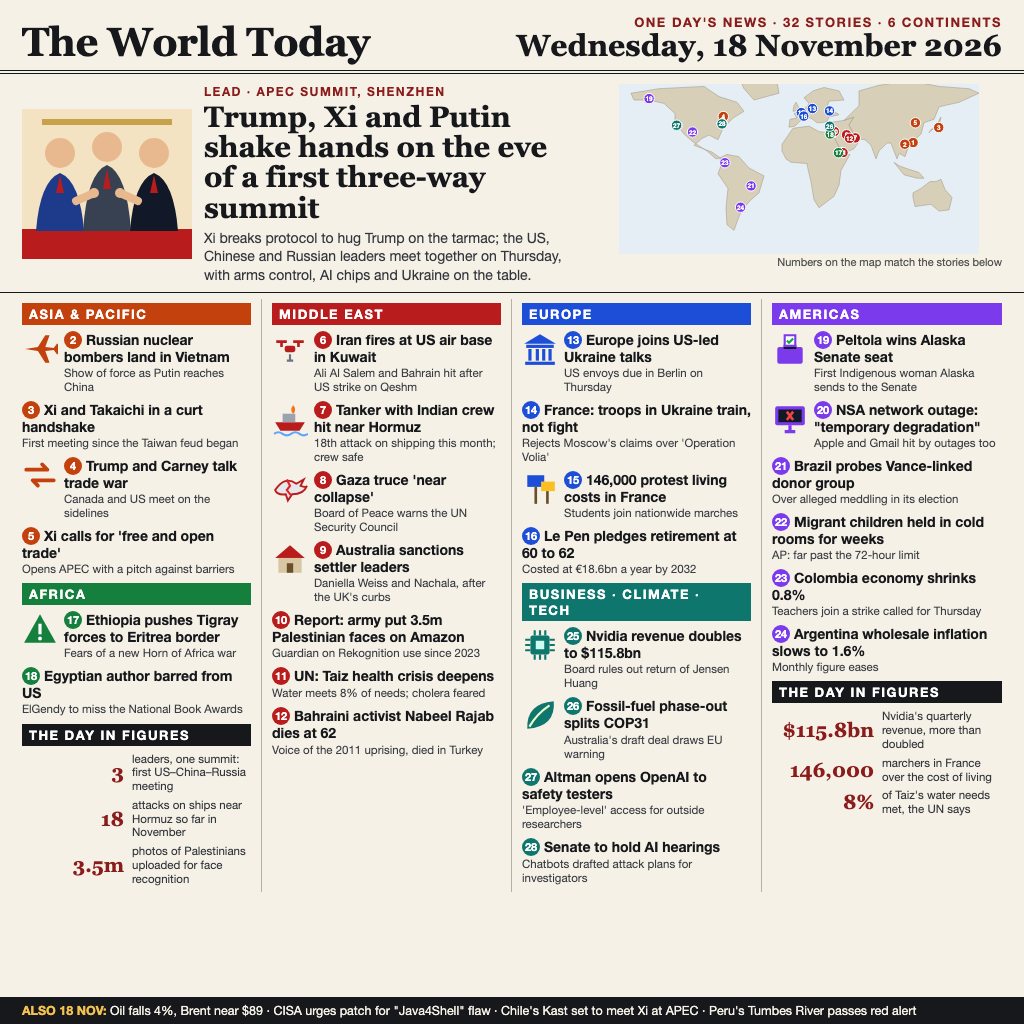
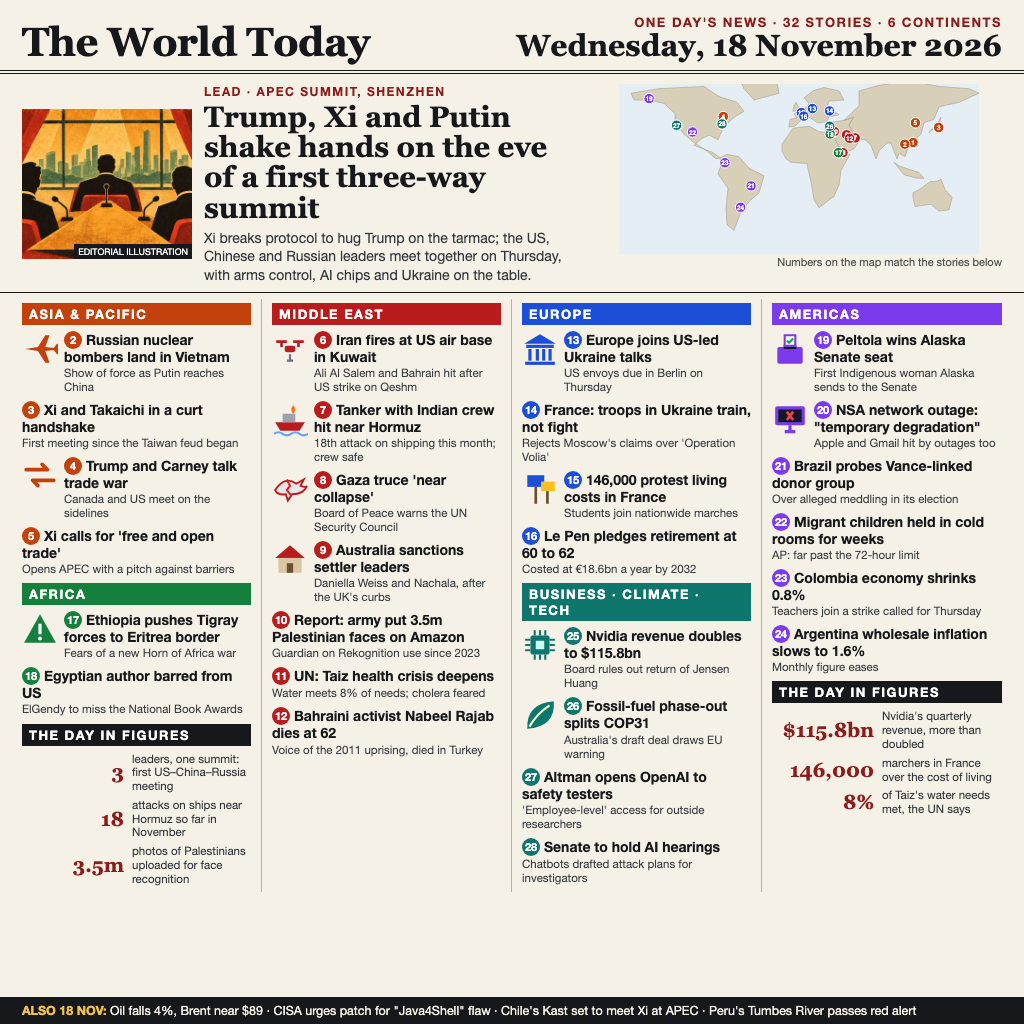
Add original screenprint editorial art to front page

Changed region(s): [[0.0, 0.0938, 0.1875, 0.25]]

diff --git a/poster.html b/poster.html
@@ -14,7 +14,9 @@
   .mast .date span { font-size: 13px; letter-spacing: 1.5px; text-transform: uppercase; color: #8a1c1c; font-weight: 700; }
   .top { display: grid; grid-template-columns: 560px 1fr; gap: 14px; padding: 10px 22px 8px; border-bottom: 1px solid #16181c; }
   .lead { display: grid; grid-template-columns: 170px 1fr; gap: 12px; align-items: center; }
-  .lead svg { width: 170px; height: 150px; }
+  .lead figure { position: relative; width: 170px; height: 150px; overflow: hidden; }
+  .lead figure img { width: 170px; height: 150px; object-fit: cover; display: block; }
+  .lead figcaption { position: absolute; right: 0; bottom: 0; padding: 2px 4px; font-size: 9px; color: #fff; background: #16181c; }
   .lead .kick { font-size: 12px; font-weight: 800; letter-spacing: 1.5px; color: #8a1c1c; text-transform: uppercase; }
   .lead h1 { font-family: Georgia, serif; font-size: 29px; line-height: 1.05; margin: 3px 0 6px; }
   .lead p { font-size: 14px; line-height: 1.3; color: #33373d; }
@@ -45,18 +47,10 @@
 
   <div class="top">
     <div class="lead">
-      <svg viewBox="0 0 170 150" aria-label="three leaders shake hands at the summit">
-        <rect width="170" height="150" fill="#f3e3c3"/>
-        <rect y="120" width="170" height="30" fill="#b91c1c"/>
-        <g fill="#c8a24a"><rect x="20" y="10" width="130" height="6"/></g>
-        <circle cx="38" cy="44" r="15" fill="#e8b98f"/><circle cx="85" cy="38" r="15" fill="#e8b98f"/><circle cx="132" cy="44" r="15" fill="#e8b98f"/>
-        <path d="M14 122 q4-50 24-58 q20 8 24 58z" fill="#1e3a8a"/>
-        <path d="M61 122 q4-58 24-66 q20 8 24 66z" fill="#374151"/>
-        <path d="M108 122 q4-50 24-58 q20 8 24 58z" fill="#111827"/>
-        <path d="M54 92 L72 84 M116 92 L98 84" stroke="#e8b98f" stroke-width="8" stroke-linecap="round"/>
-        <circle cx="72" cy="84" r="5" fill="#e8b98f"/><circle cx="98" cy="84" r="5" fill="#e8b98f"/>
-        <path d="M38 66 l-4 18 h8z M85 60 l-4 20 h8z M132 66 l-4 18 h8z" fill="#b91c1c"/>
-      </svg>
+      <figure>
+        <img src="summit-art.webp" alt="Editorial illustration of three anonymous diplomats at a conference table">
+        <figcaption>EDITORIAL ILLUSTRATION</figcaption>
+      </figure>
       <div>
         <div class="kick">Lead · APEC summit, Shenzhen</div>
         <h1>Trump, Xi and Putin shake hands on the eve of a first three-way summit</h1>

diff --git a/README.md b/README.md
@@ -4,7 +4,7 @@
 [![rank](https://make.fun/badge/news-image-20261118/cypher-dex/news-image-20261118/rank.svg)](https://make.fun/bounty/news-image-20261118/leaderboard?utm_source=github&utm_medium=readme&utm_campaign=news-image-20261118)
 [![reward](https://make.fun/badge/news-image-20261118/cypher-dex/news-image-20261118/reward.svg)](https://make.fun/bounty/news-image-20261118?utm_source=github&utm_medium=readme&utm_campaign=news-image-20261118)
 
-The world's news of Wednesday 18 November 2026 in one picture: the APEC summit in Shenzhen, Iran's strikes on Kuwait and Bahrain, the Gaza truce warning at the UN, Nvidia's results, the COP31 fossil-fuel fight and Australia's settler sanctions, with a ticker of four more. `poster.html` is the source, rendered to `entry.png` with headless Chrome at 1024x1024; `main.ts` checks the PNG against the gate's limits and writes it to the output.
+The world's news of Wednesday 18 November 2026 as a 32-story front page with a numbered world map, regional columns and figures. The lead image is an original generated geometric screenprint **editorial illustration**, not a documentary photograph (`summit-art.webp`); story icons and map are drawn in `poster.html`. Render `poster.html` to `entry.png` with headless Chrome at 1024x1024; `main.ts` checks the PNG against the gate's limits and writes it to the output.
 
 ## Run it
 
